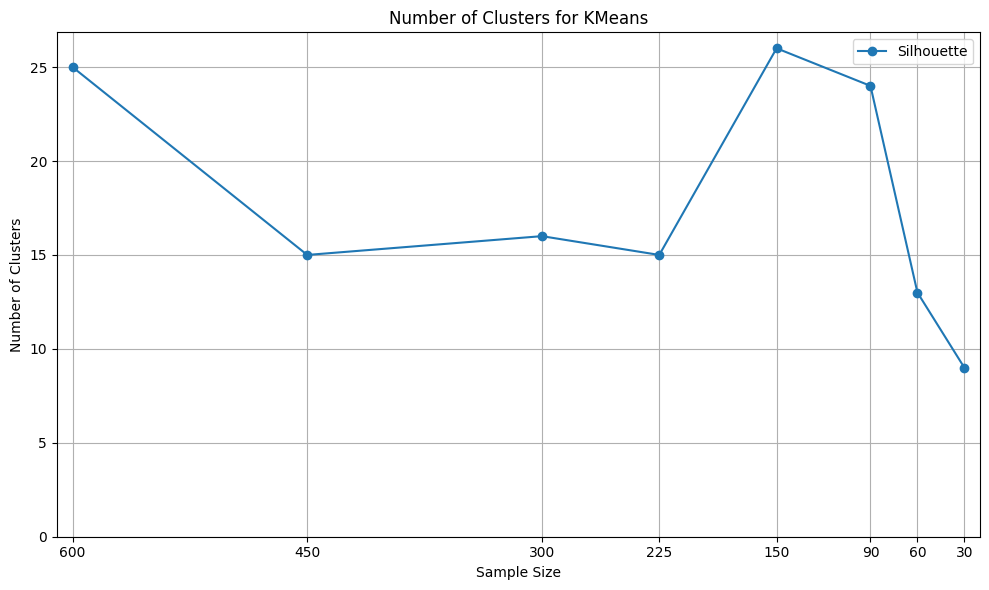
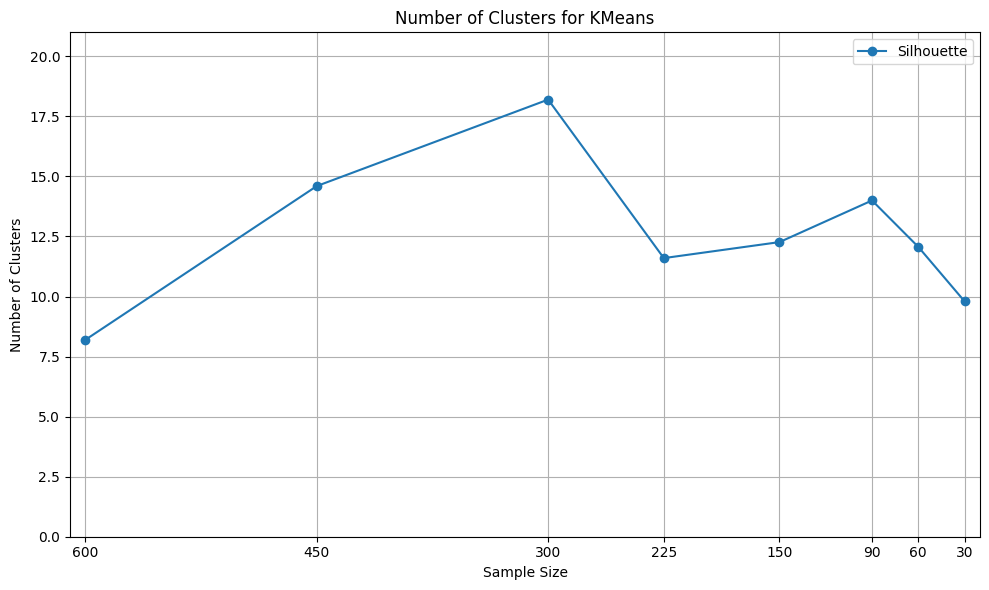
SISTA

diff --git a/Project 3/Hedvog.py b/Project 3/Hedvog.py
@@ -54,7 +54,7 @@ def run_clustering_models(X, y_true=None, k_range=range(2, 11), dataset_name="Da
     else:
         if diff_sample:
             n_components = min(50, np.floor(X_scaled.shape[0]//5), X_scaled.shape[1])
-            k_range = range(2, 30)
+            k_range = range(2, 21)
         else:
             n_components = min(50, X_scaled.shape[0], X_scaled.shape[1])
 
@@ -237,7 +237,7 @@ def simulate_imbalance_effect(X, y, imbalance_settings, dataset_name="MNIST_Imba
             y_sub.append(np.full(n_samples, cls))
         X_combined = np.vstack(X_sub)
         y_combined = np.concatenate(y_sub)
-        results = run_clustering_models(X_combined, y_true=y_combined, dataset_name=f"{dataset_name}_ratio={imbalance}")
+        results = run_clustering_models(X_combined, y_true=y_combined, dataset_name=f"{dataset_name}_ratio={imbalance}", plot=False, diff_sample=True)
         for r in results:
             r['Cluster Sizes'] = str(imbalance)
         all_results.extend(results)
@@ -312,13 +312,28 @@ mask_012 = np.isin(numbers_y, [0, 1, 2])
 X_012 = numbers_X[mask_012]
 y_012 = numbers_y[mask_012]
 
-sample_size_results = simulate_sample_size_effect(X_012, y_012)
+all_results = []
+
+for _ in range(15):
+    sample_size_results = simulate_sample_size_effect(X_012, y_012)
+    all_results.append(sample_size_results)
+
+# Concatenate all iteration results into a single DataFrame
+combined_results = pd.concat(all_results, ignore_index=True)
+
+# Compute average ARI and average k for each model and imbalance scenario
+avg_results = combined_results.groupby(["Model", "Total Samples"]).agg({
+    "ARI (Sil)": "mean",
+    "Best k (Sil)": "mean"
+}).reset_index()
 
 sample_sizes = sample_size_results["Total Samples"].unique()
 models = sample_size_results["Model"].unique()
 
+#%%
+
 for model in models:
-    data = sample_size_results[sample_size_results["Model"] == model]
+    data = avg_results[avg_results["Model"] == model]
     ARI_sil = data["ARI (Sil)"].to_numpy()
     #ARI_db = data["ARI (DB)"].to_numpy()
     k_sil = data["Best k (Sil)"].to_numpy()
@@ -330,7 +345,7 @@ for model in models:
     plt.title(f"ARI for {model}")
     plt.xlabel("Sample Size")
     plt.ylabel("ARI Score")
-    plt.ylim(bottom=0)
+    plt.ylim([0,0.72])
     plt.xlim(np.max(sample_sizes)+10, np.min(sample_sizes)-10)
     plt.xticks(ticks=sample_sizes)
     plt.grid(True)
@@ -344,7 +359,7 @@ for model in models:
     plt.title(f"Number of Clusters for {model}")
     plt.xlabel("Sample Size")
     plt.ylabel("Number of Clusters")
-    plt.ylim(bottom=0)
+    plt.ylim([0,21])
     plt.xlim(np.max(sample_sizes)+10, np.min(sample_sizes)-10)
     plt.xticks(ticks=sample_sizes)
     plt.grid(True)
@@ -352,11 +367,60 @@ for model in models:
     plt.tight_layout()
     plt.show()
 
-#%%
+#%% BALANCE IMBALANCE
+mask_012 = np.isin(numbers_y, [0, 1, 2])
+X_012 = numbers_X[mask_012]
+y_012 = numbers_y[mask_012]
+
 imbalance_scenarios = [[100, 100, 100], [150, 100, 50], [200, 50, 50], [250, 25, 25]]
-imbalance_results = simulate_imbalance_effect(X_012, y_012, imbalance_scenarios)
 
-#stability_catdog = resampling_stability_analysis(catdog_X, catdog_y, k=2, dataset_name="CatDog")
-#stability_012 = resampling_stability_analysis(X_012, y_012, k=3, dataset_name="Digits012")
+all_results = []
 
+for _ in range(15):
+    imbalance_results = simulate_imbalance_effect(X_012, y_012, imbalance_scenarios)
+    all_results.append(imbalance_results)
+
+# Concatenate all iteration results into a single DataFrame
+combined_results = pd.concat(all_results, ignore_index=True)
+
+# Compute average ARI and average k for each model and imbalance scenario
+avg_results = combined_results.groupby(["Model", "Cluster Sizes"]).agg({
+    "ARI (Sil)": "mean",
+    "Best k (Sil)": "mean"
+}).reset_index()
+
+models = avg_results["Model"].unique()
+
+for model in models:
+    data = avg_results[avg_results["Model"] == model]
+    ARI_sil = data["ARI (Sil)"].to_numpy()
+    #ARI_db = data["ARI (DB)"].to_numpy()
+    k_sil = data["Best k (Sil)"].to_numpy()
+    #k_db = data["Best k (DB)"].to_numpy()
+
+    x = range(len(imbalance_scenarios))
+
+    plt.figure(figsize=(10, 6))
+    plt.plot(x, ARI_sil, label='Silhouette', marker='o')
+    plt.title(f"ARI for {model}")
+    plt.xlabel("Imbalance Scenarios")
+    plt.ylabel("ARI Score")
+    plt.ylim([0,0.72])
+    plt.xticks(ticks=x, labels=imbalance_scenarios)
+    plt.grid(True)
+    plt.legend()
+    plt.tight_layout()
+    plt.show()
+
+    plt.figure(figsize=(10, 6))
+    plt.plot(x, k_sil, label='Silhouette', marker='o')
+    plt.title(f"Number of Clusters for {model}")
+    plt.xlabel("Imbalance Scenarios")
+    plt.ylabel("Number of Clusters")
+    plt.ylim([0,14])
+    plt.xticks(ticks=x, labels=imbalance_scenarios)
+    plt.grid(True)
+    plt.legend()
+    plt.tight_layout()
+    plt.show()
 # %%
